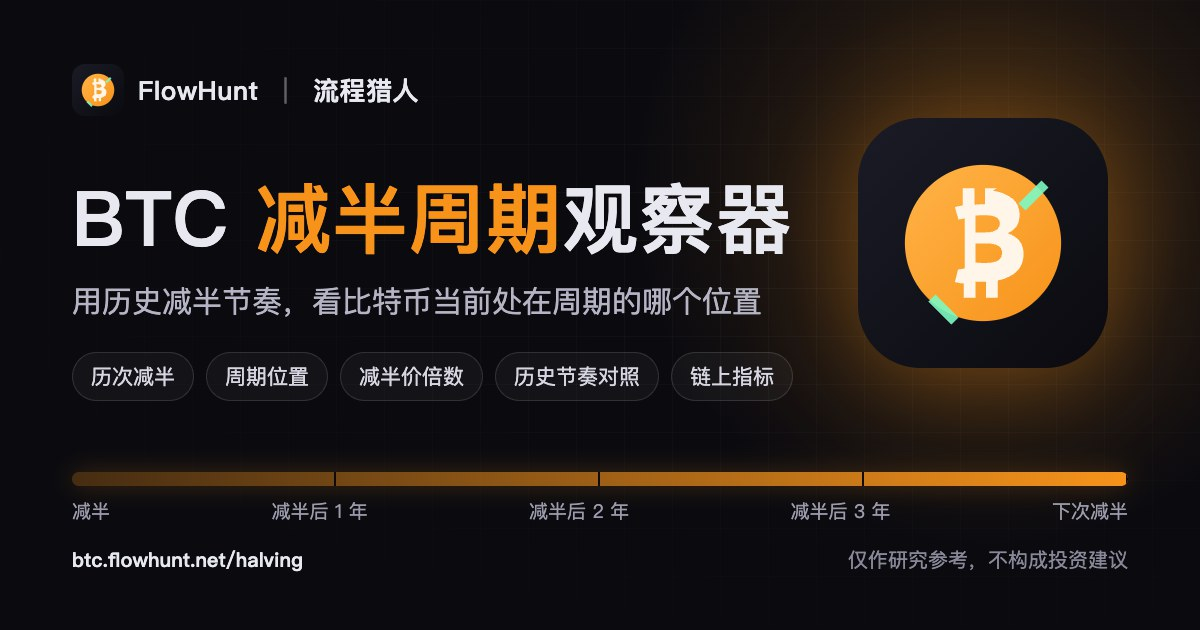
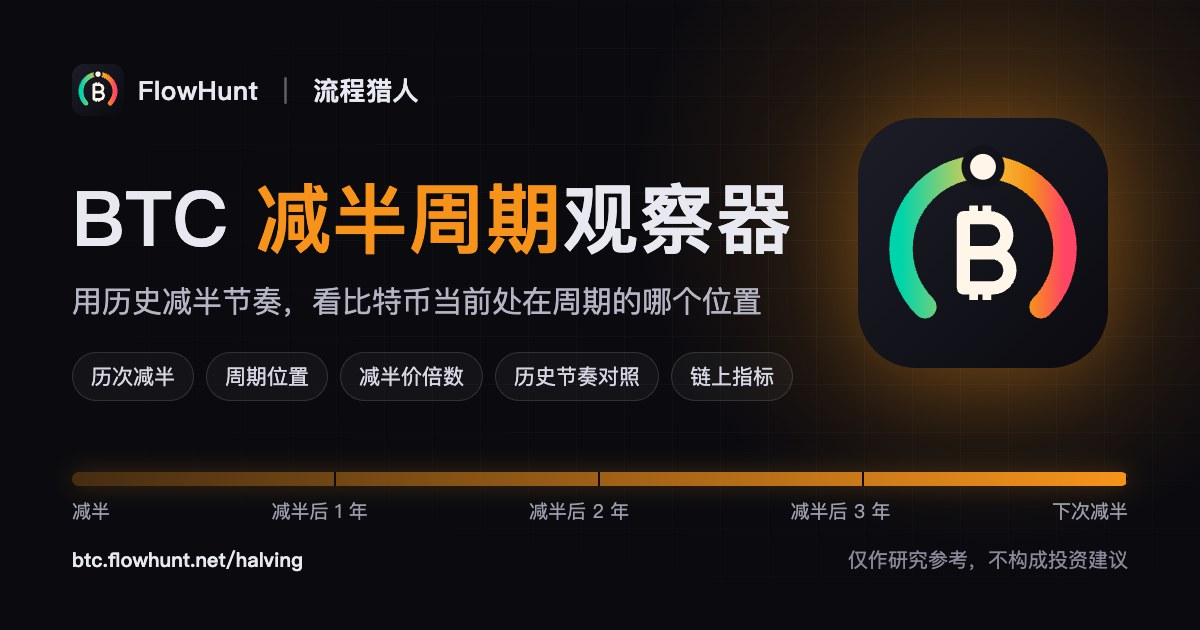
brand: one FlowHunt mark across the site
The site used three different marks: an orange coin favicon, a sparkle +
B header icon on the dashboard, and emoji (⟠ / 📡) on the ETH and radar
pages. Replace them with one mark: a cold-to-hot gauge arc around ₿
(neutral marker at the top), with an ETH-diamond variant for /eth.

- favicon.svg, new favicon-eth.svg, 180px apple-touch-icon
- Header mark on index, eth, distribution-radar and halving pages
- eth and distribution-radar now declare icons (they had none)
- Share images re-rendered with the new mark; URLs bumped
- docs/logo_concepts.py generates the mark and its mockups

Changed region(s): [[0.74, 0.2413, 0.925, 0.5127], [0.0617, 0.0905, 0.1233, 0.181]]

diff --git a/docs/og-halving.html b/docs/og-halving.html
@@ -24,41 +24,9 @@
   .coin { position: absolute; right: 92px; top: 118px; width: 250px; height: 250px; filter: drop-shadow(0 18px 50px rgba(247,147,26,0.35)); }
 </style></head><body>
   <div class="grid"></div><div class="glow"></div>
-  <svg class="coin" xmlns="http://www.w3.org/2000/svg" viewBox="0 0 64 64">
-  <defs>
-    <linearGradient id="bg" x1="0" x2="1" y1="0" y2="1">
-      <stop offset="0%" stop-color="#1b1b27"/>
-      <stop offset="100%" stop-color="#0a0a0f"/>
-    </linearGradient>
-    <linearGradient id="coin" x1="0" x2="1" y1="0" y2="1">
-      <stop offset="0%" stop-color="#ffb347"/>
-      <stop offset="100%" stop-color="#f7931a"/>
-    </linearGradient>
-  </defs>
-  <rect width="64" height="64" rx="16" fill="url(#bg)"/>
-  <circle cx="32" cy="32" r="20" fill="url(#coin)"/>
-  <path d="M35.5 18h-3v4.1c-.9 0-1.8 0-2.7.1V18h-3v4.4c-.7.1-1.4.2-2 .4l.9 3.2c.5-.1 1-.2 1.6-.3v12.8c-.5.1-1.1.2-1.7.3l-.8 3.2c.8.2 1.5.3 2.3.4V46h3v-4.1h2.7V46h3v-4.4c4-.8 6.6-3.1 6.6-6.7 0-2.7-1.4-4.5-4-5.4 1.9-.9 3-2.4 3-4.7 0-3.3-2.4-5.5-6.9-6.2Zm-5.4 7c.8-.1 1.8-.1 2.7-.1 2.3 0 3.5.7 3.5 2.1 0 1.6-1.4 2.3-3.9 2.3h-2.3V25Zm2.8 12.1c-1 0-1.9 0-2.8-.1v-4.9h2.6c2.8 0 4.2.8 4.2 2.4 0 1.7-1.4 2.6-4 2.6Z" fill="#fff6e9"/>
-  <path d="M47 16l1.8 1.8-5.9 5.9-1.8-1.8z" fill="#7df9c1" opacity=".9"/>
-  <path d="M18 47l1.8-1.8 5.9 5.9-1.8 1.8z" fill="#7df9c1" opacity=".9"/>
-</svg>
+  <svg class="coin" xmlns="http://www.w3.org/2000/svg" viewBox="0 0 64 64"><defs><linearGradient id="fhBg" x1="0" y1="0" x2="1" y2="1"><stop offset="0" stop-color="#1d1d29"/><stop offset="1" stop-color="#0a0a0f"/></linearGradient><linearGradient id="fhArc" x1="0" y1="0" x2="1" y2="0"><stop offset="0" stop-color="#00d4aa"/><stop offset=".5" stop-color="#f7c948"/><stop offset=".78" stop-color="#f7931a"/><stop offset="1" stop-color="#ff4466"/></linearGradient></defs><rect width="64" height="64" rx="15" fill="url(#fhBg)"/><path d="M17.15 48.35A21 21 0 1 1 46.85 48.35" fill="none" stroke="url(#fhArc)" stroke-width="6" stroke-linecap="round"/><circle cx="32.00" cy="12.50" r="4.4" fill="#FFF6E9" stroke="#12121a" stroke-width="2.2"/><g fill="none" stroke="#FFF6E9" stroke-linejoin="round"><path d="M27 25.5V43.5M27 25.5H33.6a4.5 4.5 0 0 1 0 9H27M27 34.5H34.4a4.5 4.5 0 0 1 0 9H27" stroke-width="3.4" stroke-linecap="round"/><path d="M29.6 22.4V25.5M33 22.4V25.5M29.6 43.5V46.6M33 43.5V46.6" stroke-width="2.2" stroke-linecap="butt"/></g></svg>
   <div class="wrap">
-    <div class="brand"><svg class="logo" xmlns="http://www.w3.org/2000/svg" viewBox="0 0 64 64">
-  <defs>
-    <linearGradient id="bg" x1="0" x2="1" y1="0" y2="1">
-      <stop offset="0%" stop-color="#1b1b27"/>
-      <stop offset="100%" stop-color="#0a0a0f"/>
-    </linearGradient>
-    <linearGradient id="coin" x1="0" x2="1" y1="0" y2="1">
-      <stop offset="0%" stop-color="#ffb347"/>
-      <stop offset="100%" stop-color="#f7931a"/>
-    </linearGradient>
-  </defs>
-  <rect width="64" height="64" rx="16" fill="url(#bg)"/>
-  <circle cx="32" cy="32" r="20" fill="url(#coin)"/>
-  <path d="M35.5 18h-3v4.1c-.9 0-1.8 0-2.7.1V18h-3v4.4c-.7.1-1.4.2-2 .4l.9 3.2c.5-.1 1-.2 1.6-.3v12.8c-.5.1-1.1.2-1.7.3l-.8 3.2c.8.2 1.5.3 2.3.4V46h3v-4.1h2.7V46h3v-4.4c4-.8 6.6-3.1 6.6-6.7 0-2.7-1.4-4.5-4-5.4 1.9-.9 3-2.4 3-4.7 0-3.3-2.4-5.5-6.9-6.2Zm-5.4 7c.8-.1 1.8-.1 2.7-.1 2.3 0 3.5.7 3.5 2.1 0 1.6-1.4 2.3-3.9 2.3h-2.3V25Zm2.8 12.1c-1 0-1.9 0-2.8-.1v-4.9h2.6c2.8 0 4.2.8 4.2 2.4 0 1.7-1.4 2.6-4 2.6Z" fill="#fff6e9"/>
-  <path d="M47 16l1.8 1.8-5.9 5.9-1.8-1.8z" fill="#7df9c1" opacity=".9"/>
-  <path d="M18 47l1.8-1.8 5.9 5.9-1.8 1.8z" fill="#7df9c1" opacity=".9"/>
-</svg>FlowHunt<span class="sep">｜</span>流程猎人</div>
+    <div class="brand"><svg class="logo" xmlns="http://www.w3.org/2000/svg" viewBox="0 0 64 64"><defs><linearGradient id="fhBg" x1="0" y1="0" x2="1" y2="1"><stop offset="0" stop-color="#1d1d29"/><stop offset="1" stop-color="#0a0a0f"/></linearGradient><linearGradient id="fhArc" x1="0" y1="0" x2="1" y2="0"><stop offset="0" stop-color="#00d4aa"/><stop offset=".5" stop-color="#f7c948"/><stop offset=".78" stop-color="#f7931a"/><stop offset="1" stop-color="#ff4466"/></linearGradient></defs><rect width="64" height="64" rx="15" fill="url(#fhBg)"/><path d="M17.15 48.35A21 21 0 1 1 46.85 48.35" fill="none" stroke="url(#fhArc)" stroke-width="6" stroke-linecap="round"/><circle cx="32.00" cy="12.50" r="4.4" fill="#FFF6E9" stroke="#12121a" stroke-width="2.2"/><g fill="none" stroke="#FFF6E9" stroke-linejoin="round"><path d="M27 25.5V43.5M27 25.5H33.6a4.5 4.5 0 0 1 0 9H27M27 34.5H34.4a4.5 4.5 0 0 1 0 9H27" stroke-width="3.4" stroke-linecap="round"/><path d="M29.6 22.4V25.5M33 22.4V25.5M29.6 43.5V46.6M33 43.5V46.6" stroke-width="2.2" stroke-linecap="butt"/></g></svg>FlowHunt<span class="sep">｜</span>流程猎人</div>
     <h1>BTC <em>减半周期</em>观察器</h1>
     <div class="sub">用历史减半节奏，看比特币当前处在周期的哪个位置</div>
     <div class="chips"><span class="chip">历次减半</span><span class="chip">周期位置</span><span class="chip">减半价倍数</span><span class="chip">历史节奏对照</span><span class="chip">链上指标</span></div>

diff --git a/docs/og-image.html b/docs/og-image.html
@@ -23,41 +23,9 @@
   .coin { position: absolute; right: 92px; top: 118px; width: 250px; height: 250px; filter: drop-shadow(0 18px 50px rgba(247,147,26,0.35)); }
 </style></head><body>
   <div class="grid"></div><div class="glow"></div>
-  <svg class="coin" xmlns="http://www.w3.org/2000/svg" viewBox="0 0 64 64">
-  <defs>
-    <linearGradient id="bg" x1="0" x2="1" y1="0" y2="1">
-      <stop offset="0%" stop-color="#1b1b27"/>
-      <stop offset="100%" stop-color="#0a0a0f"/>
-    </linearGradient>
-    <linearGradient id="coin" x1="0" x2="1" y1="0" y2="1">
-      <stop offset="0%" stop-color="#ffb347"/>
-      <stop offset="100%" stop-color="#f7931a"/>
-    </linearGradient>
-  </defs>
-  <rect width="64" height="64" rx="16" fill="url(#bg)"/>
-  <circle cx="32" cy="32" r="20" fill="url(#coin)"/>
-  <path d="M35.5 18h-3v4.1c-.9 0-1.8 0-2.7.1V18h-3v4.4c-.7.1-1.4.2-2 .4l.9 3.2c.5-.1 1-.2 1.6-.3v12.8c-.5.1-1.1.2-1.7.3l-.8 3.2c.8.2 1.5.3 2.3.4V46h3v-4.1h2.7V46h3v-4.4c4-.8 6.6-3.1 6.6-6.7 0-2.7-1.4-4.5-4-5.4 1.9-.9 3-2.4 3-4.7 0-3.3-2.4-5.5-6.9-6.2Zm-5.4 7c.8-.1 1.8-.1 2.7-.1 2.3 0 3.5.7 3.5 2.1 0 1.6-1.4 2.3-3.9 2.3h-2.3V25Zm2.8 12.1c-1 0-1.9 0-2.8-.1v-4.9h2.6c2.8 0 4.2.8 4.2 2.4 0 1.7-1.4 2.6-4 2.6Z" fill="#fff6e9"/>
-  <path d="M47 16l1.8 1.8-5.9 5.9-1.8-1.8z" fill="#7df9c1" opacity=".9"/>
-  <path d="M18 47l1.8-1.8 5.9 5.9-1.8 1.8z" fill="#7df9c1" opacity=".9"/>
-</svg>
+  <svg class="coin" xmlns="http://www.w3.org/2000/svg" viewBox="0 0 64 64"><defs><linearGradient id="fhBg" x1="0" y1="0" x2="1" y2="1"><stop offset="0" stop-color="#1d1d29"/><stop offset="1" stop-color="#0a0a0f"/></linearGradient><linearGradient id="fhArc" x1="0" y1="0" x2="1" y2="0"><stop offset="0" stop-color="#00d4aa"/><stop offset=".5" stop-color="#f7c948"/><stop offset=".78" stop-color="#f7931a"/><stop offset="1" stop-color="#ff4466"/></linearGradient></defs><rect width="64" height="64" rx="15" fill="url(#fhBg)"/><path d="M17.15 48.35A21 21 0 1 1 46.85 48.35" fill="none" stroke="url(#fhArc)" stroke-width="6" stroke-linecap="round"/><circle cx="32.00" cy="12.50" r="4.4" fill="#FFF6E9" stroke="#12121a" stroke-width="2.2"/><g fill="none" stroke="#FFF6E9" stroke-linejoin="round"><path d="M27 25.5V43.5M27 25.5H33.6a4.5 4.5 0 0 1 0 9H27M27 34.5H34.4a4.5 4.5 0 0 1 0 9H27" stroke-width="3.4" stroke-linecap="round"/><path d="M29.6 22.4V25.5M33 22.4V25.5M29.6 43.5V46.6M33 43.5V46.6" stroke-width="2.2" stroke-linecap="butt"/></g></svg>
   <div class="wrap">
-    <div class="brand"><svg class="logo" xmlns="http://www.w3.org/2000/svg" viewBox="0 0 64 64">
-  <defs>
-    <linearGradient id="bg" x1="0" x2="1" y1="0" y2="1">
-      <stop offset="0%" stop-color="#1b1b27"/>
-      <stop offset="100%" stop-color="#0a0a0f"/>
-    </linearGradient>
-    <linearGradient id="coin" x1="0" x2="1" y1="0" y2="1">
-      <stop offset="0%" stop-color="#ffb347"/>
-      <stop offset="100%" stop-color="#f7931a"/>
-    </linearGradient>
-  </defs>
-  <rect width="64" height="64" rx="16" fill="url(#bg)"/>
-  <circle cx="32" cy="32" r="20" fill="url(#coin)"/>
-  <path d="M35.5 18h-3v4.1c-.9 0-1.8 0-2.7.1V18h-3v4.4c-.7.1-1.4.2-2 .4l.9 3.2c.5-.1 1-.2 1.6-.3v12.8c-.5.1-1.1.2-1.7.3l-.8 3.2c.8.2 1.5.3 2.3.4V46h3v-4.1h2.7V46h3v-4.4c4-.8 6.6-3.1 6.6-6.7 0-2.7-1.4-4.5-4-5.4 1.9-.9 3-2.4 3-4.7 0-3.3-2.4-5.5-6.9-6.2Zm-5.4 7c.8-.1 1.8-.1 2.7-.1 2.3 0 3.5.7 3.5 2.1 0 1.6-1.4 2.3-3.9 2.3h-2.3V25Zm2.8 12.1c-1 0-1.9 0-2.8-.1v-4.9h2.6c2.8 0 4.2.8 4.2 2.4 0 1.7-1.4 2.6-4 2.6Z" fill="#fff6e9"/>
-  <path d="M47 16l1.8 1.8-5.9 5.9-1.8-1.8z" fill="#7df9c1" opacity=".9"/>
-  <path d="M18 47l1.8-1.8 5.9 5.9-1.8 1.8z" fill="#7df9c1" opacity=".9"/>
-</svg>FlowHunt<span class="sep">｜</span>流程猎人</div>
+    <div class="brand"><svg class="logo" xmlns="http://www.w3.org/2000/svg" viewBox="0 0 64 64"><defs><linearGradient id="fhBg" x1="0" y1="0" x2="1" y2="1"><stop offset="0" stop-color="#1d1d29"/><stop offset="1" stop-color="#0a0a0f"/></linearGradient><linearGradient id="fhArc" x1="0" y1="0" x2="1" y2="0"><stop offset="0" stop-color="#00d4aa"/><stop offset=".5" stop-color="#f7c948"/><stop offset=".78" stop-color="#f7931a"/><stop offset="1" stop-color="#ff4466"/></linearGradient></defs><rect width="64" height="64" rx="15" fill="url(#fhBg)"/><path d="M17.15 48.35A21 21 0 1 1 46.85 48.35" fill="none" stroke="url(#fhArc)" stroke-width="6" stroke-linecap="round"/><circle cx="32.00" cy="12.50" r="4.4" fill="#FFF6E9" stroke="#12121a" stroke-width="2.2"/><g fill="none" stroke="#FFF6E9" stroke-linejoin="round"><path d="M27 25.5V43.5M27 25.5H33.6a4.5 4.5 0 0 1 0 9H27M27 34.5H34.4a4.5 4.5 0 0 1 0 9H27" stroke-width="3.4" stroke-linecap="round"/><path d="M29.6 22.4V25.5M33 22.4V25.5M29.6 43.5V46.6M33 43.5V46.6" stroke-width="2.2" stroke-linecap="butt"/></g></svg>FlowHunt<span class="sep">｜</span>流程猎人</div>
     <h1>BTC <em>风险温度</em>仪表盘</h1>
     <div class="sub">用公开数据观察比特币的冷热与周期位置</div>
     <div class="chips"><span class="chip">MVRV</span><span class="chip">NUPL</span><span class="chip">Puell</span><span class="chip">ETF 资金流</span><span class="chip">宏观流动性</span><span class="chip">交易所存量</span></div>

diff --git a/index.html b/index.html
@@ -12,7 +12,7 @@
 <meta property="og:url" content="https://btc.flowhunt.net/">
 <meta property="og:title" content="BTC 风险温度仪表盘｜FlowHunt">
 <meta property="og:description" content="整合 MVRV、NUPL、Puell Multiple、ETF 资金流和宏观指标，用公开数据观察比特币风险温度。仅作研究参考，不构成投资建议。">
-<meta property="og:image" content="https://btc.flowhunt.net/og-image.jpg?v=2">
+<meta property="og:image" content="https://btc.flowhunt.net/og-image.jpg?v=3">
 <meta property="og:image:width" content="1200">
 <meta property="og:image:height" content="630">
 <meta property="og:locale" content="zh_CN">
@@ -20,7 +20,7 @@
 <meta name="twitter:card" content="summary_large_image">
 <meta name="twitter:title" content="BTC 风险温度仪表盘｜FlowHunt">
 <meta name="twitter:description" content="用链上、宏观和 ETF 资金流观察比特币风险温度。仅作研究参考，不构成投资建议。">
-<meta name="twitter:image" content="https://btc.flowhunt.net/og-image.jpg?v=2">
+<meta name="twitter:image" content="https://btc.flowhunt.net/og-image.jpg?v=3">
 <link rel="icon" type="image/svg+xml" href="/favicon.svg">
 <link rel="shortcut icon" href="/favicon.svg">
 <link rel="apple-touch-icon" href="/apple-touch-icon.png">
@@ -641,19 +641,7 @@
 
 <div class="header">
   <div class="header-left">
-    <div class="brand-mark" aria-label="BTC Insight logo">
-      <svg viewBox="0 0 64 64" fill="none" xmlns="http://www.w3.org/2000/svg" role="img" aria-hidden="true">
-        <path d="M32 8C22.3 8 14.1 13.6 10.2 21.8" stroke="rgba(247,147,26,0.35)" stroke-width="3.2" stroke-linecap="round"/>
-        <path d="M53.8 22.2C50 13.8 41.7 8 32 8" stroke="#f7931a" stroke-width="3.2" stroke-linecap="round"/>
-        <path d="M32 56C41.7 56 49.9 50.4 53.8 42.2" stroke="rgba(247,147,26,0.28)" stroke-width="3.2" stroke-linecap="round"/>
-        <path d="M10.2 41.8C14 50.2 22.3 56 32 56" stroke="rgba(247,147,26,0.14)" stroke-width="3.2" stroke-linecap="round"/>
-        <path d="M32 18L36.5 28.5L47 33L36.5 37.5L32 48L27.5 37.5L17 33L27.5 28.5L32 18Z" fill="#f7931a" fill-opacity="0.14" stroke="#f7931a" stroke-width="2"/>
-        <path d="M28 20.5V45" stroke="#F5F0E8" stroke-width="3.2" stroke-linecap="round"/>
-        <path d="M36 20.5V45" stroke="#F5F0E8" stroke-width="3.2" stroke-linecap="round"/>
-        <path d="M23.5 24H34.2C38 24 40.7 26.1 40.7 29.5C40.7 32.1 39 33.8 36.2 34.4C39.7 35 42 37 42 40.3C42 44.2 38.8 46.5 34 46.5H23.5" stroke="#F5F0E8" stroke-width="3.2" stroke-linecap="round" stroke-linejoin="round"/>
-        <circle cx="50.5" cy="15.5" r="3.5" fill="#f7931a"/>
-      </svg>
-    </div>
+    <div class="brand-mark" style="background:none;border:0;box-shadow:none;padding:0;overflow:hidden"><img src="/favicon.svg" alt="FlowHunt logo" width="44" height="44" style="display:block;width:100%;height:100%"></div>
     <div class="title-block">
       <h1>FlowHunt｜流程猎人</h1>
       <p>BTC 风险温度仪表盘 · 链上数据 / 宏观流动性 / 周期观察</p>

diff --git a/halving.html b/halving.html
@@ -10,7 +10,7 @@
 <meta property="og:url" content="https://btc.flowhunt.net/halving">
 <meta property="og:title" content="BTC 减半周期观察器 | FlowHunt｜流程猎人">
 <meta property="og:description" content="用历史减半节奏观察 BTC 当前周期位置，不输出买卖建议。">
-<meta property="og:image" content="https://btc.flowhunt.net/og-halving.jpg">
+<meta property="og:image" content="https://btc.flowhunt.net/og-halving.jpg?v=2">
 <meta property="og:image:width" content="1200">
 <meta property="og:image:height" content="630">
 <link rel="icon" type="image/svg+xml" href="/favicon.svg">
@@ -206,7 +206,7 @@ body::before{content:"";position:fixed;inset:0;pointer-events:none;background:ra
 
 <header class="product-shell">
   <a class="brand" href="/" style="text-decoration:none;color:inherit;">
-    <span class="brand-mark">₿</span>
+    <span class="brand-mark" style="background:none;border:0;box-shadow:none;padding:0;overflow:hidden"><img src="/favicon.svg" alt="FlowHunt logo" width="42" height="42" style="display:block;width:100%;height:100%"></span>
     <span>
       <span class="brand-title">FlowHunt｜流程猎人</span>
       <span class="brand-sub">BTC 减半周期观察 · 历史节奏 / 周期位置 / 风险温度</span>

diff --git a/distribution-radar.html b/distribution-radar.html
@@ -38,11 +38,13 @@
   @media(max-width:760px){.hero{grid-template-columns:1fr}.score-panel{align-items:flex-start}.gauge{width:112px;height:112px}.score-num{font-size:34px}.band{grid-template-columns:1fr}.quick-grid{grid-template-columns:1fr 1fr}.header{position:static}.header-right{width:100%;justify-content:flex-start}.last-updated{text-align:left}.panel{padding:16px}}
   @media(max-width:460px){.score-panel{flex-direction:column}.quick-grid{grid-template-columns:1fr}.metrics{grid-template-columns:1fr}.container{padding-left:12px;padding-right:12px}}
 </style>
+<link rel="icon" type="image/svg+xml" href="/favicon.svg">
+<link rel="apple-touch-icon" href="/apple-touch-icon.png">
 </head>
 <body>
 <div class="header">
   <div class="header-left">
-    <div class="logo">📡</div>
+    <div class="logo" style="background:none;border:0;box-shadow:none;padding:0;overflow:hidden"><img src="/favicon.svg" alt="FlowHunt logo" width="44" height="44" style="display:block;width:100%;height:100%"></div>
     <div class="title-block">
       <h1>FlowHunt｜流程猎人</h1>
       <p>BTC 派发雷达 · 上涨质量 / 承接强弱 / 合约推动风险</p>

diff --git a/eth.html b/eth.html
@@ -270,12 +270,14 @@
     .metric-grid { grid-template-columns: 1fr 1fr; }
   }
 </style>
+<link rel="icon" type="image/svg+xml" href="/favicon-eth.svg">
+<link rel="apple-touch-icon" href="/apple-touch-icon.png">
 </head>
 <body>
 
 <div class="header">
   <div class="header-left">
-    <div class="logo">⟠</div>
+    <div class="logo"><img src="/favicon-eth.svg" alt="FlowHunt ETH logo" width="44" height="44" style="display:block;border-radius:11px"></div>
     <div class="title-block">
       <h1>FlowHunt｜流程猎人</h1>
       <p>ETH 链上观察 · 供给集中度 / 交易所净流量 / 质押结构</p>

diff --git a/docs/logo_concepts.py b/docs/logo_concepts.py
@@ -1,0 +1,33 @@
+import math
+def pt(cx, cy, r, deg):
+    a = math.radians(deg); return cx + r*math.cos(a), cy + r*math.sin(a)
+CX, CY, R = 32, 33.5, 21
+x1, y1 = pt(CX, CY, R, 135); x2, y2 = pt(CX, CY, R, 45); mx, my = pt(CX, CY, R, 270)
+DEFS = ('<linearGradient id="fhBg" x1="0" y1="0" x2="1" y2="1"><stop offset="0" stop-color="#1d1d29"/><stop offset="1" stop-color="#0a0a0f"/></linearGradient>'
+        '<linearGradient id="fhArc" x1="0" y1="0" x2="1" y2="0"><stop offset="0" stop-color="#00d4aa"/><stop offset=".5" stop-color="#f7c948"/><stop offset=".78" stop-color="#f7931a"/><stop offset="1" stop-color="#ff4466"/></linearGradient>')
+ARC = (f'<path d="M{x1:.2f} {y1:.2f}A{R} {R} 0 1 1 {x2:.2f} {y2:.2f}" fill="none" stroke="url(#fhArc)" stroke-width="6" stroke-linecap="round"/>'
+       f'<circle cx="{mx:.2f}" cy="{my:.2f}" r="4.4" fill="#FFF6E9" stroke="#12121a" stroke-width="2.2"/>')
+# ₿：主体粗线 + 平头细刻度，避免小尺寸下端点糊成一团
+BTC = ('<g fill="none" stroke="#FFF6E9" stroke-linejoin="round">'
+       '<path d="M27 25.5V43.5M27 25.5H33.6a4.5 4.5 0 0 1 0 9H27M27 34.5H34.4a4.5 4.5 0 0 1 0 9H27" stroke-width="3.4" stroke-linecap="round"/>'
+       '<path d="M29.6 22.4V25.5M33 22.4V25.5M29.6 43.5V46.6M33 43.5V46.6" stroke-width="2.2" stroke-linecap="butt"/></g>')
+ETH = ('<g stroke-linejoin="round"><path d="M32 21.5L40 35L32 39.6L24 35Z" fill="#FFF6E9"/>'
+       '<path d="M32 41.6L40 37L32 47.5L24 37Z" fill="#FFF6E9" opacity=".75"/></g>')
+def mark(glyph, rx=15):
+    return f'<svg xmlns="http://www.w3.org/2000/svg" viewBox="0 0 64 64"><defs>{DEFS}</defs><rect width="64" height="64" rx="{rx}" fill="url(#fhBg)"/>{ARC}{glyph}</svg>'
+open('fh-btc.svg','w').write(mark(BTC)); open('fh-eth.svg','w').write(mark(ETH)); open('fh-btc-square.svg','w').write(mark(BTC, rx=0))
+sizes=(16,24,32,48,64,180)
+rows=''
+for n in ('fh-btc','fh-eth'):
+    cells=''.join(f'<div class="c"><img src="{n}.svg" width="{z}" height="{z}"><span>{z}px</span></div>' for z in sizes)
+    rows+=f'<div class="row"><div class="bg dark">{cells}</div><div class="bg light">{cells}</div></div>'
+# header mock
+rows+='''<div class="row"><div class="bg dark hdr"><img src="fh-btc.svg" width="48" height="48"><div><div class="t">FlowHunt｜流程猎人</div><div class="s">BTC 风险温度仪表盘 · 链上数据 / 宏观流动性 / 周期观察</div></div></div>
+<div class="bg dark hdr"><img src="fh-eth.svg" width="48" height="48"><div><div class="t">ETH 链上观察</div><div class="s">供给集中度 / 交易所净流量 / 质押结构</div></div></div></div>
+<div class="row"><div class="bg tab"><img src="fh-btc.svg" width="16" height="16"> BTC 风险温度仪表盘｜FlowHunt <span style="opacity:.4">×</span></div><div class="bg tab"><img src="fh-eth.svg" width="16" height="16"> ETH 链上观察｜FlowHunt <span style="opacity:.4">×</span></div></div>'''
+open('final.html','w').write(f'''<html><head><meta charset="utf-8"><style>
+body{{margin:0;padding:24px;background:#222;font-family:'PingFang SC';color:#eee}} .row{{display:flex;gap:16px;align-items:center;margin-bottom:16px}}
+.bg{{display:flex;gap:22px;align-items:flex-end;padding:18px 22px;border-radius:12px}} .dark{{background:#0a0a0f}} .light{{background:#f3f3f5;color:#333}}
+.c{{display:flex;flex-direction:column;align-items:center;gap:6px;font-size:11px}} .hdr{{align-items:center;gap:14px;width:520px}}
+.t{{font-size:20px;font-weight:800}} .s{{font-size:12px;color:#888899;margin-top:3px}} .tab{{background:#35363a;color:#ddd;font-size:13px;align-items:center;gap:8px;padding:9px 14px;border-radius:9px 9px 0 0}}
+</style></head><body>{rows}</body></html>''')
